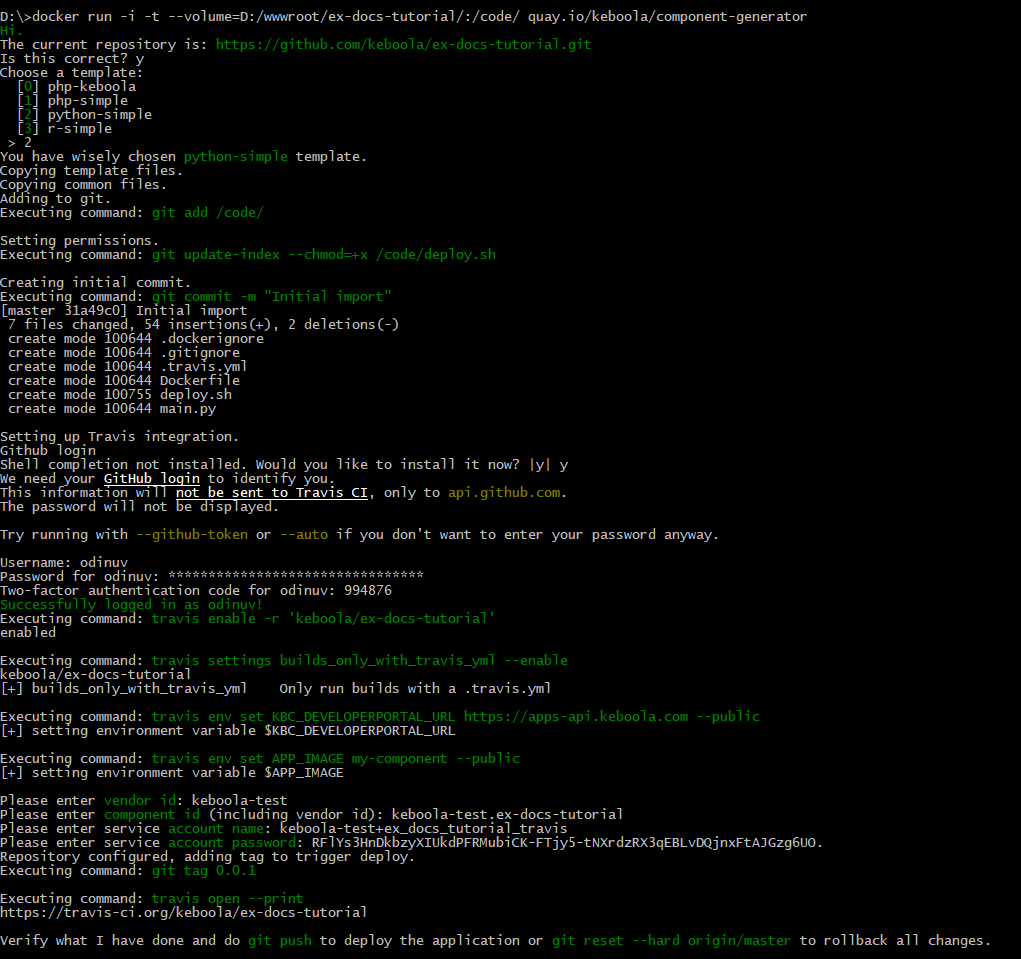
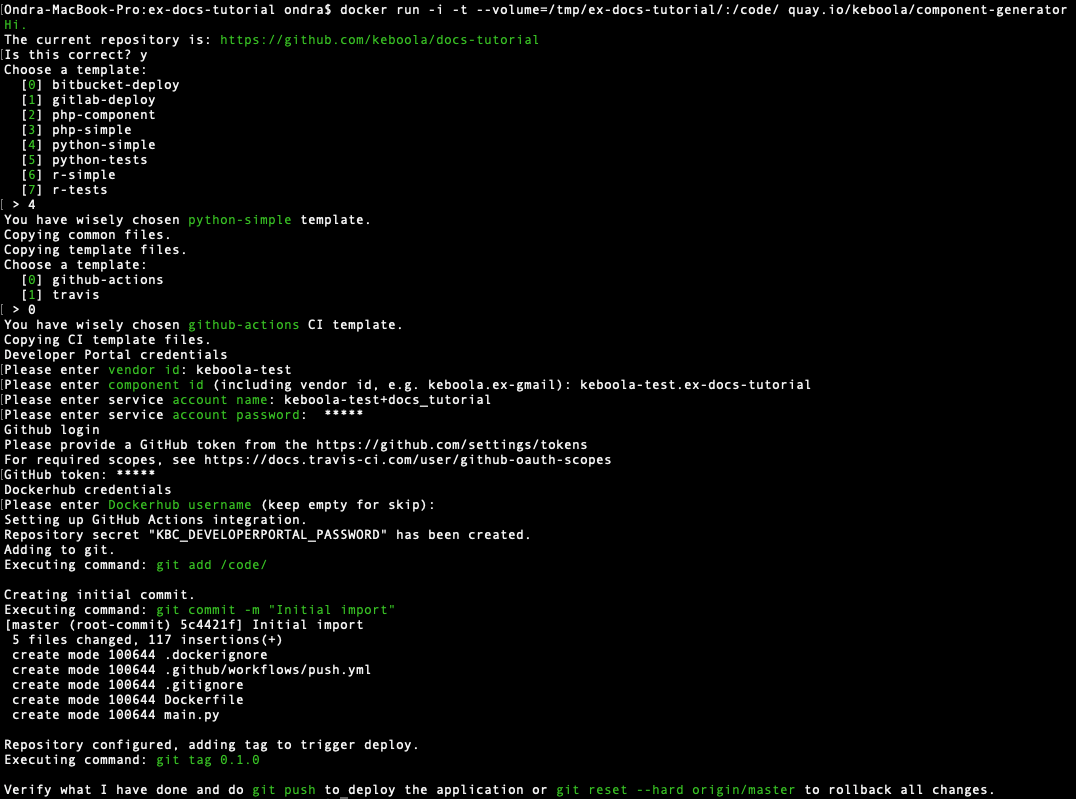
add GH Actions to the component tutorial

diff --git a/extend/component/tutorial/index.md b/extend/component/tutorial/index.md
@@ -116,24 +116,40 @@ In the above example, we chose the `simple-python` template, which contains the 
 - main.py -- a "Hello, World!" Python script
 - Dockerfile -- a [Dockerfile](/extend/component/docker-tutorial/) defining the environment in which the script runs
 - deploy.sh -- a Bash script to deploy the component to KBC
+
+For Travis CI template contain:
 - .travis.yml -- a configuration file for [Travis CI](https://docs.travis-ci.com/) to automate the deployment
 
-You will also obtain a path to your Travis CI configuration
-(in the above example [https://travis-ci.org/keboola/ex-docs-tutorial](https://travis-ci.org/keboola/ex-docs-tutorial)).
+For GitHub Actions CI template contain:
+- .github/workflows/push.yml -- a configuration file for [GitHub Actions CI](https://github.com/features/actions) to automate the deploy
 
 ## Building Component
 When done exploring, push to the repository.
-This will automatically trigger a build on the Travis service; you can view the build
+This will automatically trigger a build on the Travis or GitHub Actions services; you can view the build
 progress by visiting the provided link. In fact, two builds will be triggered: one
 for the `master` branch, and one for the `0.1.0` tag.
+
+Travis:
 
 {: .image-popup}
 ![Screenshot -- Travis Build](/extend/component/tutorial/travis-build-1.png)
 
+GitHub Actions:
+
+{: .image-popup}
+![Screenshot -- GitHub Actions Build](/extend/component/tutorial/gh-build-1.png)
+
 We are more interested in the latter because that is going to trigger the deployment to KBC.
+
+Travis:
 
 {: .image-popup}
 ![Screenshot -- Travis Build Detail](/extend/component/tutorial/travis-build-2.png)
+
+GitHub Actions:
+
+{: .image-popup}
+![Screenshot -- GitHub Actions Build Detail](/extend/component/tutorial/gh-build-2.png)
 
 If the deployment passes without errors, the component will become available in KBC. You
 can verify that in the component details (action Edit) in the Developer Portal:
